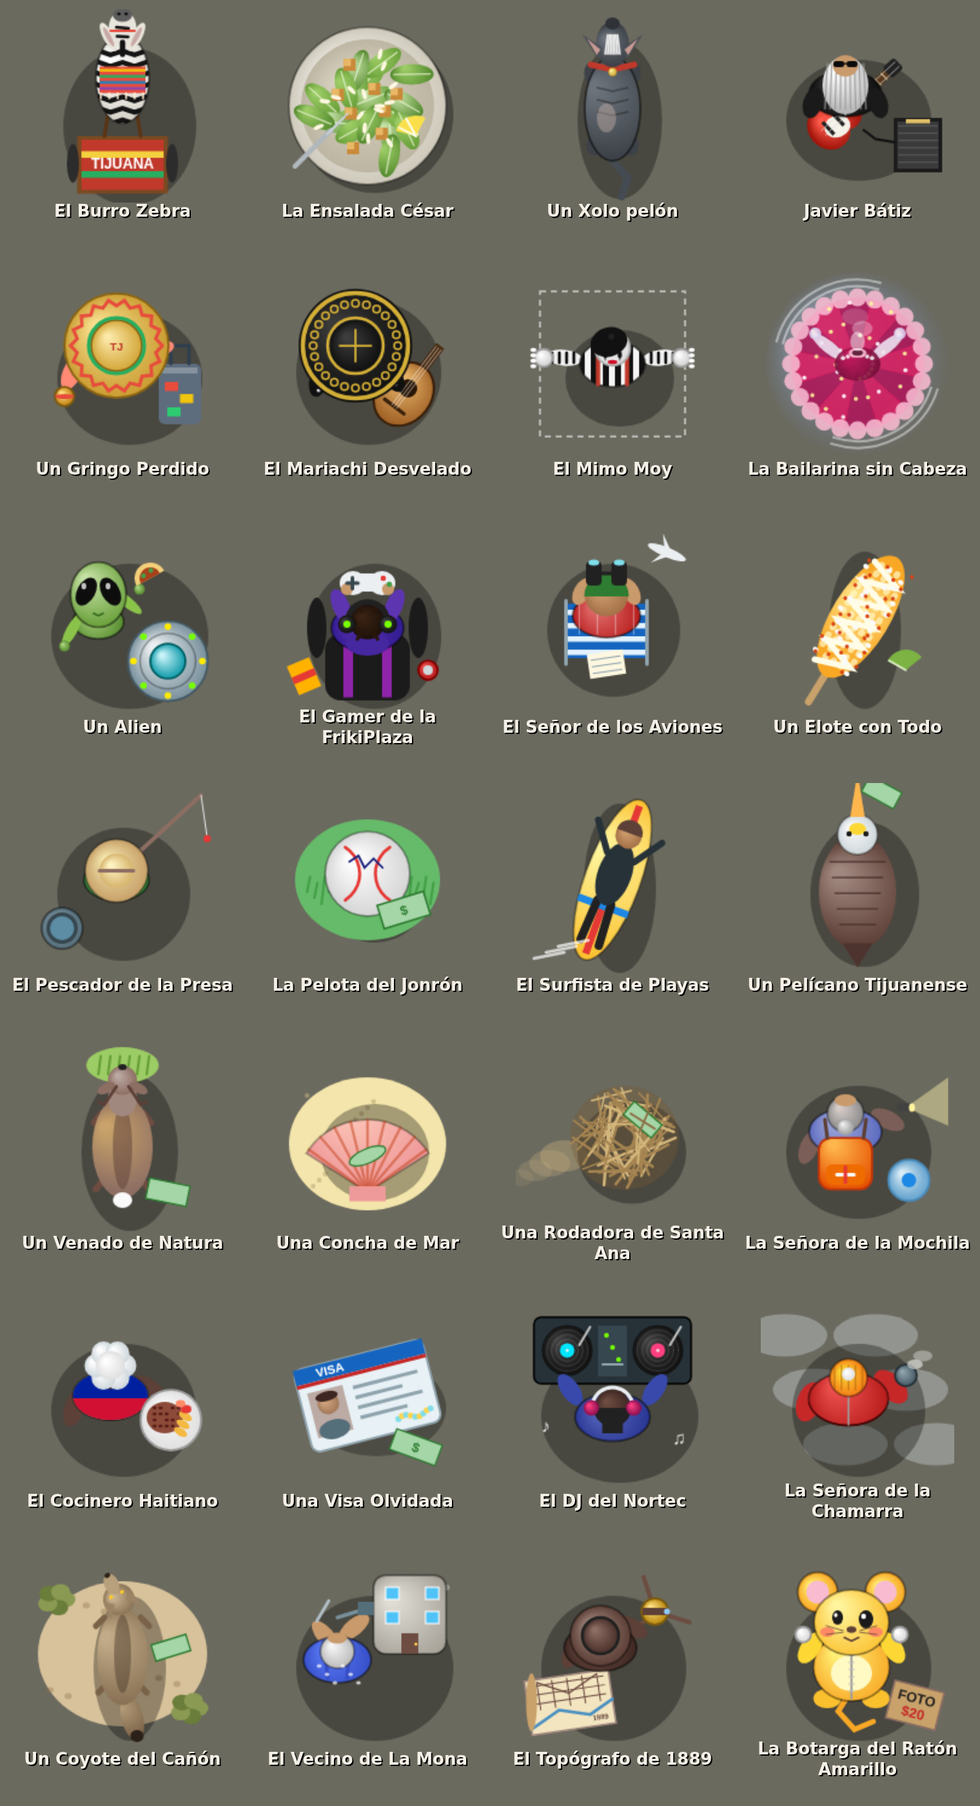
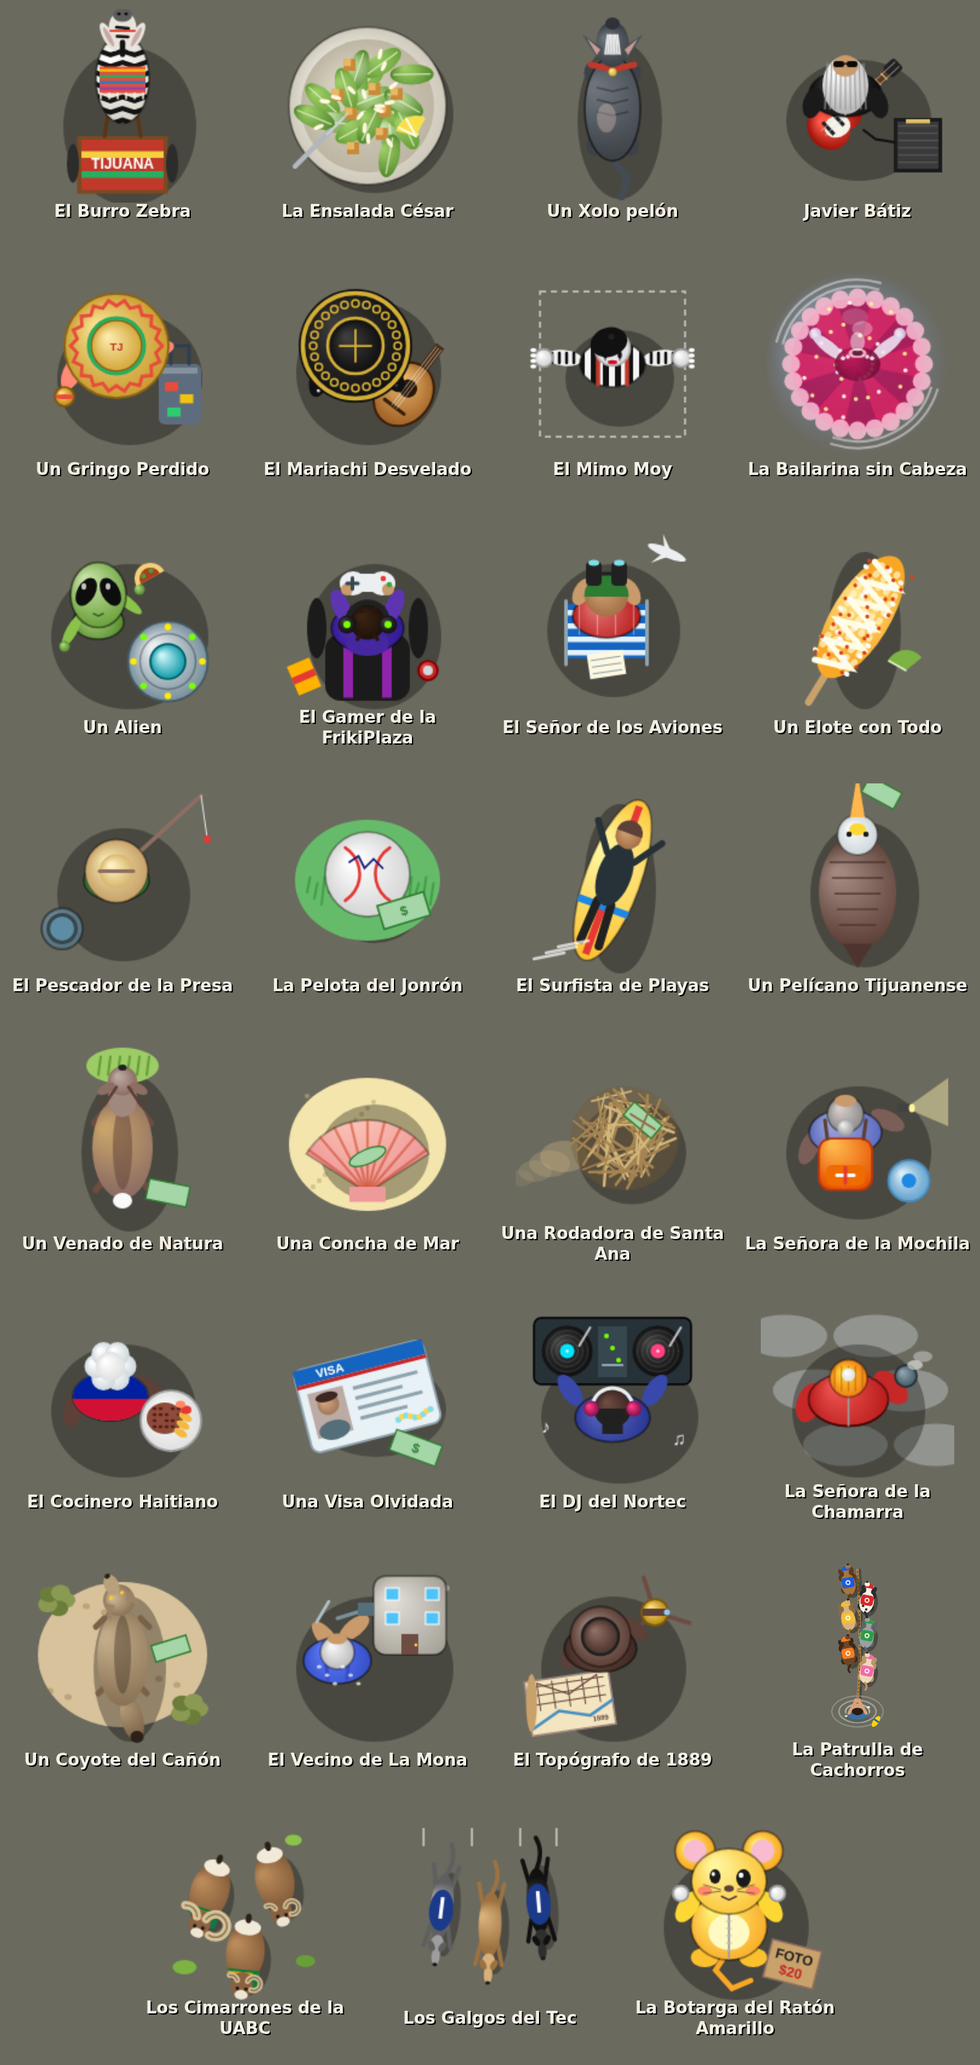
Secretos fijos: la patrulla de cachorros en el canal, cimarrones en la UABC y galgos en el Tec
Se quedan siempre en su lugar aunque ya los hayas encontrado y dicen algo
al pasar. Ahora son 31 secretos.

diff --git a/src/game.js b/src/game.js
@@ -208,6 +208,15 @@ const EGGS = [
     say: '"En 1989, para los cien años de la ciudad, un escultor hizo por aquí una mujer de concreto de 17 metros y se fue a vivir adentro. Le dicen La Mona. En Tijuana hasta las estatuas tienen recámara. Ten."' },
   { k: 'topografo', name: 'El Topógrafo de 1889', near: 'El Colef', dx: -50, dy: 55, pay: 300,
     say: '(Un señor de bigote, con su plano enrollado y su tripié.) "Es julio de 1889 y estoy trazando un pueblito junto al río. ¿Que ya somos millones? Ah, caray. Ten, a ver si todavía te sirven estos pesos."' },
+  // referencias que se quedan siempre en su lugar (fija: no se quitan al encontrarlas; r: de que tan lejos cuentan).
+  // canal: va adentro del canal del rio, en la orilla mas cercana al lugar (ver lugarEnCanal)
+  { k: 'cachorros', name: 'La Patrulla de Cachorros', near: 'Plaza Río Tijuana', dx: 0, dy: 0, pay: 300, fija: true, canal: true, r: 150,
+    say: '(Seis cachorros con chalequito y casco de colores jalan una soga para sacar a un señor del canal del río.) "¡Ningún rescate es demasiado grande!", ladra el de azul. El señor nomás quería sacar su chancla. Te dejaron una propina por echar porras.' },
+  // las mascotas de las escuelas, afuera de su campus
+  { k: 'cimarrones', name: 'Los Cimarrones de la UABC', near: 'UABC Campus Tijuana', dx: 55, dy: -45, pay: 300, fija: true, r: 70,
+    say: '(Unos borregos cimarrones con bufanda verde y dorada pastan afuera de la UABC.) El cimarrón vive en las sierras de Baja California y es la mascota de la universidad. Estos ya van en octavo semestre. Te dejaron una lana para las copias.' },
+  { k: 'galgos', name: 'Los Galgos del Tec', near: 'Tecnológico de Tijuana', dx: -55, dy: 45, pay: 300, fija: true, r: 70,
+    say: '(Tres galgos con sudadera azul pasan corriendo frente al Tecnológico.) Son la mascota del Tec de Tijuana: flacos, rapidísimos y siempre corriendo a la primera clase. A uno se le cayó un billete y ni regresó por él.' },
   // este no tiene un lugar cerca: va en metros desde la esquina noroeste del mapa, en plena Zona Norte
   { k: 'raton', name: 'La Botarga del Ratón Amarillo', at: [395, 615], pay: 200,
     say: '"¡Foto con el ratón, foto! ...No soy pirata, soy edición limitada. Ten, por no preguntar de qué caricatura soy."' },
@@ -3019,6 +3028,28 @@ const FRASES_PAN_CANCION = [
 const ZONAS_SIN_PAN = new Set(['Zona Centro', 'Zona Norte', 'Zona Río']);
 // lo que te "dice" un perro cuando te le acercas: un solo emoji. Casi siempre lo de siempre (hueso, popo, amor)
 // y de vez en cuando algo que nadie entiende
+// lo que dicen los secretos que se quedan en su lugar (EGGS con fija) cuando pasas cerca, y su globo
+const FRASES_FIJAS = {
+  // el señor que estan sacando del canal
+  cachorros: [
+  '¡Jálenle, cachorros, jálenle!', '¡El de rosa, el de rosa sí está jalando!', '¡Ya casi, ya casi... ya no!',
+  '¡Nomás era mi chancla, no hacía falta tanto!', '¡Gracias, perritos! ¿Aceptan croquetas o transferencia?',
+  '¡Que alguien les avise que ya me puedo parar, el agua me llega a la cintura!', '¡Ningún rescate es demasiado grande!',
+  '¡El de amarillo trae su casco de construcción, qué profesional!', '¡Yo nomás venía a ver si estaba la marea alta!',
+  ],
+  cimarrones: [
+    'Beee... digo, ¡arriba los Cimarrones!', 'Vengo de la biblioteca. Bueno, de comerme el pasto de afuera de la biblioteca.',
+    'Examen de cálculo a las siete. Aquí nomás andamos rumiando.', 'Estos cuernos no son para pelear, son para cargar las copias.',
+    '¿Fila en la cafetería? Yo me salto la barda, soy de montaña.', 'En la sierra quedamos pocos. Aquí en la UABC somos miles.',
+    'Mi tesis es sobre el pasto de Otay. Llevo cuatro años en el trabajo de campo.',
+  ],
+  galgos: [
+    '¡Arriba los Galgos del Tec!', 'Corremos porque ya va a empezar la clase de termodinámica.',
+    'Un galgo de ingeniería no corre: optimiza la trayectoria.', 'Llevo tres semestres buscando dónde estacionarme.',
+    'Ingeniero en sistemas y en los cien metros planos.', '¿Me pasas la tarea? Te la cambio por una galleta.',
+    'Si el profe no ha llegado en quince minutos, nos vamos. Somos galgos, no tortugas.',
+  ],
+};
 const PERRO_DICE = ['🦴', '🦴', '🦴', '💩', '💩', '❤', '❤', '🥰', '🐾', '🍖', '🎾', '😋'];
 const PERRO_ENIGMA = ['🌕', '👁', '🔮', '🛸', '⏳', '🗝', '🌀', '♾', '🪐', '📜', '🕯', '🧿', '🌵', '🪞', '🦉', '⚖', '🧭', '🎻', '🌑', '🫖'];
 const FRASES_PAN = [
@@ -5440,6 +5471,75 @@ function makeLandmarkIcons(scene) {
     l.icon = 'lm' + i;
   });
 }
+// el punto de la orilla de un canal (como el del rio Tijuana) mas cercano a (x, y), con su direccion hacia adentro y
+// lo que mide su talud (b) y su piso (f) antes del agua (ver pintarCanal)
+function lugarEnCanal(x, y) {
+  let best = null;
+  for (const a of areas) {
+    if (!a.canal || x < a.bb[0] - 600 || x > a.bb[2] + 600 || y < a.bb[1] - 600 || y > a.bb[3] + 600) continue;
+    const p = a.p, n = p.length / 2;
+    for (let i = 0; i < n; i++) {
+      const x0 = p[i * 2], y0 = p[i * 2 + 1], x1 = p[(i + 1) % n * 2], y1 = p[(i + 1) % n * 2 + 1], dx = x1 - x0, dy = y1 - y0, l2 = dx * dx + dy * dy || 1;
+      const t = Math.max(0.2, Math.min(0.8, ((x - x0) * dx + (y - y0) * dy) / l2)), qx = x0 + dx * t, qy = y0 + dy * t, d = Math.hypot(x - qx, y - qy);
+      if (best && d >= best.d) continue;
+      const l = Math.sqrt(l2); let nx = -dy / l, ny = dx / l;
+      if (!pip(qx + nx * 4, qy + ny * 4, p)) { nx = -nx; ny = -ny; }
+      // que quepa: el agua tiene que seguir adentro del canal
+      if (!pip(qx + nx * (a.canal.b + a.canal.f + 20), qy + ny * (a.canal.b + a.canal.f + 20), p)) continue;
+      best = { d, x: qx, y: qy, nx, ny, b: a.canal.b, f: a.canal.f };
+    }
+  }
+  return best;
+}
+// la patrulla de cachorros: seis perritos con chalequito y casco de colores jalando una soga (de arriba hacia abajo:
+// los perritos y luego la soga hasta el agua, L px mas abajo). Mirando hacia arriba (-y); en px del mundo, a 5x
+const CACHORROS = [ // pelo, pelo oscuro, chaleco/casco
+  ['#a8743f', '#5b3a1e', '#1e5bd8'], ['#f4f1ea', '#2b2b2b', '#d62828'], ['#d9b27c', '#8d6a3f', '#f2c230'],
+  ['#9aa0a6', '#5f6368', '#2e9e44'], ['#6d4527', '#3e2614', '#f57c1f'], ['#efd9b4', '#b8956a', '#f06ba8'],
+];
+function makeCachorros(scene, L) {
+  const K = 1.9, W = 60, H = Math.ceil(L + 40), t = scene.textures.createCanvas('egg_cachorros', W * 5, H * 5), x = t.getContext(); // K: del tamaño de los perros de la calle
+  x.scale(5, 5);
+  const ell = (c, cx, cy, rx, ry, a) => { x.fillStyle = c; x.beginPath(); x.ellipse(cx, cy, rx, ry, a || 0, 0, 7); x.fill(); };
+  const cx = W / 2, top = 12, py = top + L; // la cabeza del primero y el señor en el agua
+  // la soga, de las manos del señor a la boca del primero, con su torcido
+  x.lineCap = 'round';
+  const soga = (c, w, o) => { x.strokeStyle = c; x.lineWidth = w; x.beginPath(); x.moveTo(cx + o, py - 3 * K); x.quadraticCurveTo(cx + 3 + o, (top + py) / 2 + 8, cx + o, top - 2 * K); x.stroke(); };
+  soga('rgba(0,0,0,0.3)', 2, 1.4); soga('#b98a4e', 1.6, 0); x.setLineDash([1, 1.5]); soga('#7a5428', 0.8, 0); x.setLineDash([]);
+  // los cachorros en fila, uno de cada lado de la soga, echados para atras jalando
+  CACHORROS.forEach(([pelo, oscuro, col], i) => {
+    const lado = i % 2 ? 1 : -1, dx = cx + lado * 3.4 * K, dy = top + (2 + i * 6.2) * K, a = lado * 0.18;
+    x.save(); x.translate(dx, dy); x.rotate(a); x.scale(K, K);
+    ell('rgba(0,0,0,0.3)', 1, 1.4, 3, 4.6);
+    for (const [px, pyy] of [[-2.1, -1.6], [2.1, -1.6], [-2, 2.8], [2, 2.8]]) ell(oscuro, px, pyy, 0.9, 1.2); // patas abiertas, haciendo fuerza
+    ell(pelo, 0, 1, 2.5, 3.8); // cuerpo
+    if (i === 1) for (const [sx, sy] of [[-1, 2.6], [1.2, 0.4], [0.3, 3.6], [-1.3, -0.2]]) ell('#2b2b2b', sx, sy, 0.45, 0.4); // manchas
+    x.fillStyle = col; x.beginPath(); x.roundRect(-2.2, -1.4, 4.4, 3.6, 0.9); x.fill(); // chaleco
+    x.fillStyle = 'rgba(255,255,255,0.85)'; x.beginPath(); x.arc(0, 0.4, 0.9, 0, 7); x.fill(); // placa
+    x.fillStyle = col; x.beginPath(); x.arc(0, 0.4, 0.45, 0, 7); x.fill();
+    x.strokeStyle = oscuro; x.lineWidth = 0.7; x.beginPath(); x.moveTo(0, 4.6); x.quadraticCurveTo(lado * 1.4, 5.8, lado * 0.6, 7); x.stroke(); // cola
+    ell(pelo, 0, -3.6, 2, 1.9); // cabeza
+    ell(oscuro, -1.8, -3.4, 0.8, 1.4, -0.4); ell(oscuro, 1.8, -3.4, 0.8, 1.4, 0.4); // orejas
+    x.fillStyle = col; x.beginPath(); x.arc(0, -3.9, 1.65, Math.PI, 0); x.fill(); // casco
+    ell(pelo, -lado * 0.9, -5.2, 0.9, 0.8); ell('#1b1b1b', -lado * 1.1, -5.9, 0.4, 0.3); // hocico mordiendo la soga
+    x.restore();
+  });
+  x.save(); x.translate(cx, py); x.scale(K, K); x.translate(-cx, -py);
+  // el agua alrededor del señor: ondas y espuma
+  for (const [r, al] of [[9, 0.25], [6.5, 0.4], [4.2, 0.55]]) { x.strokeStyle = 'rgba(235,245,240,' + al + ')'; x.lineWidth = 0.5; x.beginPath(); x.ellipse(cx, py + 1, r, r * 0.6, 0, 0, 7); x.stroke(); }
+  // el señor, con el agua hasta el pecho: los hombros apenas, las manos agarrando la soga y la cara de susto
+  ell('rgba(60,90,80,0.55)', cx, py + 2.4, 4.4, 2.4);
+  ell('#3b6ea5', cx, py + 2, 3.6, 1.8); // la camisa mojada
+  x.strokeStyle = '#d8a27a'; x.lineWidth = 1.1; x.beginPath(); x.moveTo(cx - 3, py + 1.6); x.lineTo(cx - 0.6, py - 2.6); x.moveTo(cx + 3, py + 1.6); x.lineTo(cx + 0.6, py - 2.6); x.stroke();
+  ell('#d8a27a', cx - 0.5, py - 2.8, 0.8, 0.8); ell('#d8a27a', cx + 0.5, py - 2.8, 0.8, 0.8); // las manos
+  ell('#d8a27a', cx, py + 0.4, 2, 2); ell('#2a1c14', cx, py + 1, 2, 1.3); // cabeza con pelo
+  ell('rgba(255,255,255,0.8)', cx + 3.8, py - 0.5, 0.6, 0.4); ell('rgba(255,255,255,0.8)', cx - 4, py + 2.6, 0.5, 0.35); // gotitas
+  // la chancla flotando
+  x.save(); x.translate(cx + 6.5, py + 4.5); x.rotate(0.6); ell('#ffd600', 0, 0, 1, 2.2); x.fillStyle = '#1565c0'; x.fillRect(-1, -0.6, 2, 0.6); x.restore();
+  x.restore();
+  t.refresh();
+  return { W, H, top, py };
+}
 function makeEggs(scene) {
   let x;
   const ell = (c, cx, cy, rx, ry, a) => { x.fillStyle = c; x.beginPath(); x.ellipse(cx, cy, rx, ry, a || 0, 0, 7); x.fill(); };
@@ -6059,6 +6159,45 @@ function makeEggs(scene) {
       line('#ffd54f', 0.35, [[13.7, 17.6], [18.3, 17.6]]); // lentes de cadenita
     },
   };
+  // un borrego cimarron visto desde arriba, mirando hacia abajo (+y), con los cuernos enroscados (grandes: el macho)
+  const cimarron = (cx, cy, a, cuernos, bufanda) => {
+    x.save(); x.translate(cx, cy); x.rotate(a);
+    ell('rgba(0,0,0,0.3)', 1, 1.2, 3.4, 5.4);
+    x.fillStyle = rad(0, 0, 5, '#b98a5a', '#7a5434'); x.beginPath(); x.ellipse(0, -0.5, 3.2, 5, 0, 0, 7); x.fill(); // cuerpo cafe
+    ell('#f1ead9', 0, -4.6, 2.2, 1.3); // la nalga blanca
+    ell('#2b2016', 0, -6.1, 0.5, 0.8); // colita
+    if (bufanda) { x.fillStyle = '#0f7a3f'; x.fillRect(-2.6, 2.4, 5.2, 1.3); x.fillStyle = '#d4a017'; x.fillRect(-2.6, 2.8, 5.2, 0.45); x.fillStyle = '#0f7a3f'; x.fillRect(1.6, 2.6, 1, 2.6); }
+    ell('#8a6240', 0, 5, 1.8, 2.2); ell('#efe6d2', 0, 6.6, 1.1, 0.8); // cabeza y hocico claro
+    x.lineCap = 'round';
+    for (const l of [-1, 1]) { // cuernos: un arco enroscado de cada lado
+      x.strokeStyle = '#d8c39a'; x.lineWidth = cuernos ? 1.4 : 0.9; x.beginPath();
+      x.arc(l * (cuernos ? 2.6 : 1.9), 4.6, cuernos ? 1.9 : 1.1, l > 0 ? Math.PI * 1.1 : -Math.PI * 0.1, l > 0 ? Math.PI * 2.6 : Math.PI * 1.4, l < 0); x.stroke();
+      x.strokeStyle = 'rgba(90,70,40,0.6)'; x.lineWidth = 0.3; x.stroke();
+    }
+    ell('#1b1b1b', -0.7, 5.6, 0.3, 0.3); ell('#1b1b1b', 0.7, 5.6, 0.3, 0.3); // ojos
+    x.restore();
+  };
+  // un galgo corriendo visto desde arriba, mirando hacia abajo (+y): flaco y largo, patas estiradas
+  const galgo = (cx, cy, a, pelo, oscuro, sudadera) => {
+    x.save(); x.translate(cx, cy); x.rotate(a);
+    ell('rgba(0,0,0,0.28)', 1, 1.2, 2.2, 7);
+    x.strokeStyle = oscuro; x.lineWidth = 0.7; x.lineCap = 'round';
+    x.beginPath(); x.moveTo(-1.4, 3); x.lineTo(-2.2, 6.6); x.moveTo(1.4, 3); x.lineTo(2.2, 6.6); x.moveTo(-1.3, -3); x.lineTo(-2.1, -6.8); x.moveTo(1.3, -3); x.lineTo(2.1, -6.8); x.stroke(); // patas
+    x.fillStyle = rad(0, 0, 4, pelo, oscuro); x.beginPath(); x.ellipse(0, 0, 1.9, 5.4, 0, 0, 7); x.fill();
+    if (sudadera) { x.fillStyle = '#1b3a8a'; x.beginPath(); x.ellipse(0, 0.6, 2, 3.4, 0, 0, 7); x.fill(); x.fillStyle = '#fff'; x.fillRect(-0.3, -1.6, 0.6, 3.6); }
+    x.beginPath(); x.moveTo(0, -5); x.quadraticCurveTo(1.6, -8, 0.4, -10.4); x.stroke(); // cola larga y delgada
+    ell(pelo, 0, 6.2, 1.1, 1.5); ell(pelo, 0, 8.2, 0.7, 1.6); ell('#1b1b1b', 0, 9.6, 0.4, 0.3); // cuello, cabeza alargada y nariz
+    ell(oscuro, -0.9, 6.6, 0.5, 0.9, -0.5); ell(oscuro, 0.9, 6.6, 0.5, 0.9, 0.5); // orejitas para atras
+    x.restore();
+  };
+  draw.cimarrones = () => {
+    cimarron(10, 13, 0.3, true, true); cimarron(21, 11, -0.2, false, false); cimarron(16, 23, 0.1, false, true);
+    ell('#7cb342', 6, 25, 2, 1.2); ell('#689f38', 26, 24, 1.6, 1); ell('#8bc34a', 24, 4, 1.4, 0.9); // matitas de pasto
+  };
+  draw.galgos = () => {
+    galgo(8, 15, 0.12, '#9e9e9e', '#5f5f5f', true); galgo(16, 18, 0.04, '#d8b07a', '#9c7240', false); galgo(24, 14, -0.08, '#2f2f2f', '#111', true);
+    x.strokeStyle = 'rgba(255,255,255,0.5)'; x.lineWidth = 0.4; for (const px of [5, 13, 21, 27]) { x.beginPath(); x.moveTo(px, 2); x.lineTo(px, 5); x.stroke(); } // rayitas de velocidad
+  };
   for (const k in draw) {
     const t = scene.textures.createCanvas('egg_' + k, 160, 160);
     x = t.getContext(); x.save(); x.scale(5, 5); draw[k](x); x.restore(); t.refresh();
@@ -6418,9 +6557,25 @@ class Main extends Phaser.Scene {
       Y.label = this.add.text(Y.icon.x, Y.icon.y - hh - 8, '🔧 ' + Y.name, { fontSize: '13px', fontStyle: 'bold', color: '#ffd54f', stroke: '#000', strokeThickness: 3, resolution: TXT_RES }).setOrigin(0.5).setDepth(19);
     }
     for (const e of EGGS) {
+      if (e.canal) {
+        // adentro del canal: los perritos en el piso y la soga hasta el agua (si no hay canal cerca, en la banqueta)
+        const c = lugarEnCanal(e.x, e.y);
+        if (c) {
+          const d0 = c.b + c.f * 0.05, d1 = c.b + c.f + 22, T = makeCachorros(this, d1 - d0), rot = Math.atan2(-c.ny, -c.nx) + Math.PI / 2;
+          // el centro de la imagen: entre los perritos (d0) y el agua (d1), con la parte de arriba hacia la orilla
+          const dm = d0 - T.top + T.H / 2;
+          e.x = c.x + c.nx * (d0 + 10); e.y = c.y + c.ny * (d0 + 10);
+          e.icon = this.add.image(c.x + c.nx * dm, c.y + c.ny * dm, 'egg_cachorros').setScale(1 / 5).setRotation(rot).setDepth(4.6);
+          // jalan y aflojan
+          this.tweens.add({ targets: e.icon, x: e.icon.x - c.nx * 1.2, y: e.icon.y - c.ny * 1.2, duration: 700, yoyo: true, repeat: -1, ease: 'Sine.easeInOut' });
+          e.persona = { x: c.x + c.nx * d1, y: c.y + c.ny * d1 };
+          continue;
+        }
+      }
       const [sx, sy, rot] = sidewalkSpot(e.x, e.y, (SIDEWALK + 0.5) * M);
       e.x = sx; e.y = sy;
-      e.icon = this.add.image(sx, sy, 'egg_' + e.k).setScale(0.4).setRotation(rot).setDepth(7).setVisible(!e.got);
+      e.icon = this.add.image(sx, sy, 'egg_' + e.k).setScale(0.4).setRotation(rot).setDepth(7).setVisible(!e.got || e.fija);
+      if (e.fija) { e.persona = { x: sx, y: sy }; this.tweens.add({ targets: e.icon, rotation: rot + 0.06, duration: 900, yoyo: true, repeat: -1, ease: 'Sine.easeInOut' }); }
     }
     this.stamina = STAMINA; this.tired = false; this.burning = []; this.perros = []; this.gatos = []; this.gatoProx = 0; this.fuegos = []; this.manchas = []; this.blastLights = [];
     this.chatDeck = []; this.chatCool = 0;
@@ -8652,11 +8807,17 @@ class Main extends Phaser.Scene {
     }
     this.checkPerks();
     for (const e of EGGS) {
-      if (e.got || dist(e.x, e.y, f.x, f.y) > 45 || sp > 90) continue;
+      const now = this.time.now;
+      if (e.fija && e.persona && !this.bubble.ped && now > (e.dicT || 0) && dist(e.persona.x, e.persona.y, f.x, f.y) < 220) {
+        // los que se quedan: de vez en cuando dicen algo (el señor del canal, las mascotas de las escuelas)
+        e.dicT = now + rnd(14000, 22000);
+        this.globo(e.persona, e.k, pick(FRASES_FIJAS[e.k]), 3.5);
+      }
+      if (e.got || dist(e.x, e.y, f.x, f.y) > (e.r || 45) || sp > 90) continue;
       e.got = true; state.money += e.pay; save(); bigSound = true; updateStats();
       const n = EGGS.filter(q => q.got).length;
       toast('🥚 ' + e.name + ' (+$' + e.pay + ')', e.say + (n === EGGS.length ? '  ¡Encontraste todos los secretos de Tijuana!' : '  Secreto ' + n + ' de ' + EGGS.length + '.'), Math.max(6, e.say.length / 22));
-      this.tweens.add({ targets: e.icon, alpha: 0, scale: 1.2, duration: 900, delay: 1500, onComplete: () => e.icon.setVisible(false) });
+      if (!e.fija) this.tweens.add({ targets: e.icon, alpha: 0, scale: 1.2, duration: 900, delay: 1500, onComplete: () => e.icon.setVisible(false) });
     }
     for (const c of chinas) {
       c.cool -= dt;

diff --git a/src/style.css b/src/style.css
@@ -80,6 +80,9 @@ html, body { margin: 0; height: 100%; overflow: hidden; background: var(--bg); c
   background: repeating-linear-gradient(0deg, rgba(255,255,255,.09) 0 1px, transparent 1px 10px),
     repeating-linear-gradient(90deg, rgba(255,255,255,.09) 0 1px, transparent 1px 10px), #1f4f86; }
 /* los gatos de las azoteas: morado de noche con ojos amarillos, y muy creidos */
+.bubble.cachorros { --bg: #e8f4ff; --bd: #1e5bd8; --fg: #0d2a5c; font-weight: 700; }
+.bubble.cimarrones { --bg: #fff8e1; --bd: #0f7a3f; --fg: #10391f; font-weight: 700; }
+.bubble.galgos { --bg: #eef3ff; --bd: #1b3a8a; --fg: #0d1d45; font-weight: 700; }
 .bubble.perro { --bg: #fff8e7; --bd: #8a5a35; font-size: 26px; line-height: 1; padding: 6px 10px; border-radius: 50%; }
 .bubble.gato { --bg: #2a1f35; --bd: #f5b700; --fg: #ffe9a8; font-style: italic; }
 /* los del sobreruedas: rosa mexicano con una tira de lonas de colores arriba */

diff --git a/README.md b/README.md
@@ -50,9 +50,9 @@ T trabajar de taxista · M mapa grande (toca para marcar destino). En celular ha
 - Escenas de tráfico 💥: los cruceros donde más se choca en Tijuana (estudio Misión Cero 2015-2023, SSPCM y Bomberos): Aldrete y Negrete, Parque Baja California y Pedregal, Lázaro Cárdenas y la Vía Rápida, la Glorieta Cuauhtémoc, la Vía Rápida Poniente, Las 5 y 10, el Bulevar 2000 y la Glorieta Santa Fe. Al llegar a uno, 7 de cada 10 veces hay un choque, y no siempre el mismo: de lado, alcance, carambola de tres, esquinazo (uno se pasó el alto) o una moto tirada. Los carros tienen las intermitentes prendidas, hay vidrios en el piso, al que se dio de frente le sale humo, y los conductores discuten mientras el de tránsito los calma (a veces la patrulla todavía no llega y te piden que seas su testigo). El tráfico le da la vuelta y los carros no se pueden robar. Están en `ESCENAS` de src/game.js (cada una se pega a su calle real).
 - Sobreruedas 🛍: los mercados sobre ruedas de Tijuana en la calle donde se ponen: Zona Norte (Miguel F. Martínez), la Villa (Antonio Villareal), Playas (Paseo del Pedregal), Otay Bellas Artes, Otay Módulos (Sor Juana Inés de la Cruz), El Florido (Calle del Saucillo), La Curva (Ruta Mariano Matamoros) y la Sánchez Taboada (Cruz del Sur). En la vida real cada uno es un día o dos a la semana; aquí están siempre. Tienen puestos con lonas de colores (ropa de paca, fruta, juguetes, fierro viejo, tenis, plantas, pan y chácharas), vallas donde cruzan otras calles y gente comprando que se para a ver los puestos y te habla. La calle está cerrada a los carros (el tráfico y la flecha le dan la vuelta y tu carro no pasa de la valla) pero se camina. Están en `SOBRERUEDAS` de src/game.js.
 - La fila de las garitas 🚗: en San Ysidro y en Otay siempre hay fila para cruzar a Estados Unidos. Los carriles que llegan a la línea están llenos de carros, defensa con defensa, que no se mueven (dejan libres los cruces con otras calles). No se pueden robar: nadie suelta su lugar en la fila. De vez en cuando alguien pita o te dice algo desde su carro. Entre los carros caminan vendedores (churros, agua, cobijas, figuras de yeso y dulces) que se paran en las ventanillas, pregonan y te ofrecen lo suyo si te les acercas (`VENDEDORES`). Las garitas están en `GARITAS` y las frases en `FRASES_FILA` de src/game.js.
-- Secretos 🥚: 28 personajes y cosas típicas de Tijuana escondidos cerca de los lugares (el burro cebra, la ensalada César, Javier Bátiz, el Mimo Moy, el señor de los aviones, el pescador de la Presa, el surfista de Playas, un venado en Natura...). Al encontrarlos sueltan una frase y una lana. En las orillas hay 9 más que cuentan la historia de la ciudad: hechos recientes (el temblor de 2010, la llegada de los haitianos en 2016, la línea cerrada en 2020 y 2021), nostalgia (el Nortec, La Mona, el plano de 1889) y consejos de aquí (la Santa Ana, el mayo gris, los arroyos cuando llueve). Están en `EGGS` de src/game.js.
+- Secretos 🥚: 31 personajes y cosas típicas de Tijuana escondidos cerca de los lugares (el burro cebra, la ensalada César, Javier Bátiz, el Mimo Moy, el señor de los aviones, el pescador de la Presa, el surfista de Playas, un venado en Natura...). Al encontrarlos sueltan una frase y una lana. En las orillas hay 9 más que cuentan la historia de la ciudad: hechos recientes (el temblor de 2010, la llegada de los haitianos en 2016, la línea cerrada en 2020 y 2021), nostalgia (el Nortec, La Mona, el plano de 1889) y consejos de aquí (la Santa Ana, el mayo gris, los arroyos cuando llueve). También hay referencias que se quedan siempre en su lugar aunque ya las hayas encontrado (`fija`): en el canal del río, por Plaza Río Tijuana, una patrulla de seis cachorros con chalequito y casco de colores saca a un señor del agua con una soga (y el señor grita cosas cuando pasas), y las mascotas de las escuelas afuera de su campus: unos borregos cimarrones con bufanda verde y dorada en la UABC y unos galgos con sudadera azul en el Tecnológico de Tijuana, que también te dicen algo al pasar. Están en `EGGS` de src/game.js.
 
-  ![Los 28 secretos](docs/easter-eggs.png)
+  ![Los 31 secretos](docs/easter-eggs.png)
 
 El progreso se guarda en el navegador (en la app, también en el almacén del teléfono), junto con dónde te quedaste: al volver a abrir apareces en el mismo lugar, y si ibas manejando, en el mismo carro.
 
